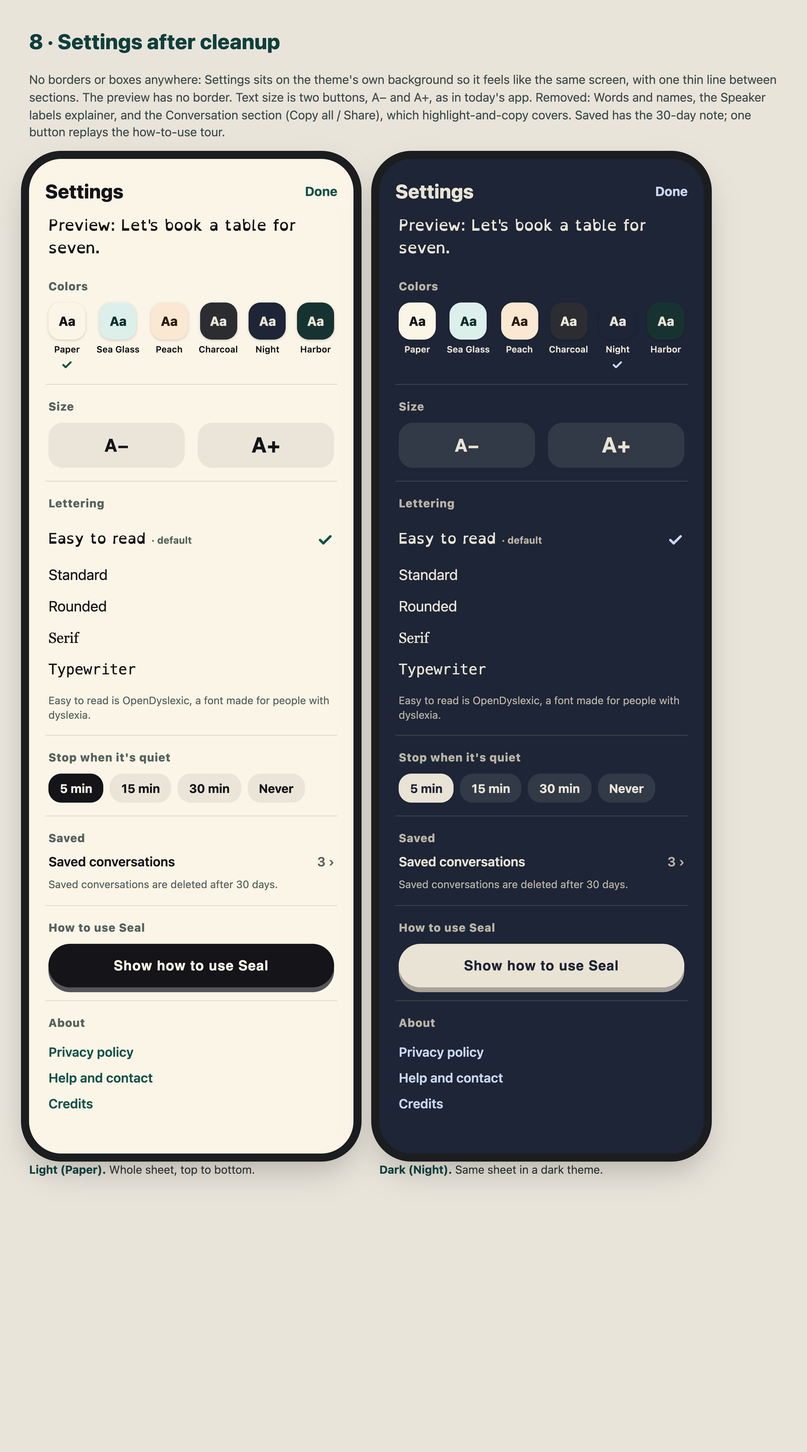
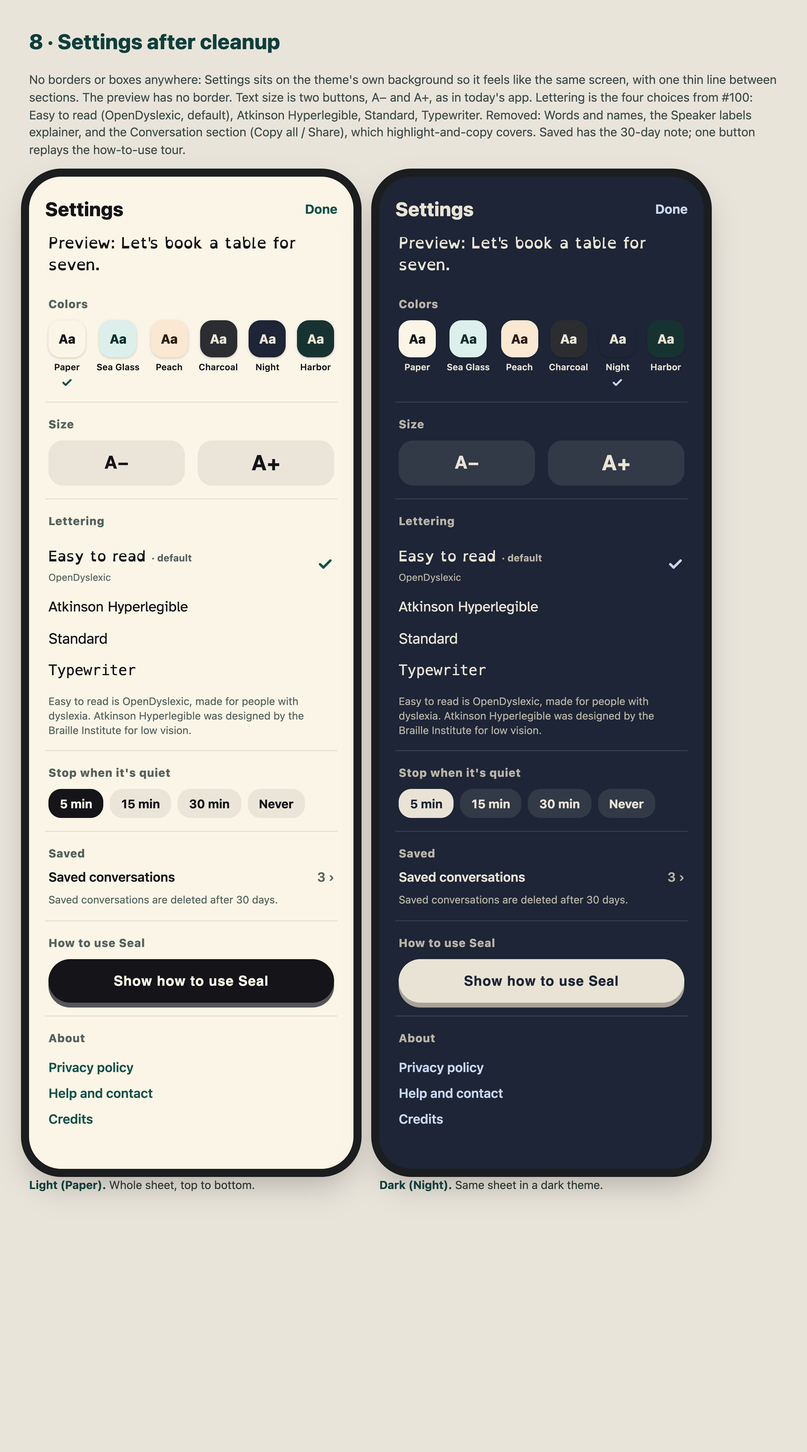
Settings mock: Lettering is OpenDyslexic, Atkinson Hyperlegible, Standard, Typewriter (#100)
Claude-Session: https://claude.ai/code/session_01Cp7dnhxUsQiktMJiQYertd

diff --git a/docs/design/mocks/2026-10-09/src/08-settings.html b/docs/design/mocks/2026-10-09/src/08-settings.html
@@ -1,6 +1,7 @@
 <!doctype html><html><head><meta charset="utf-8"><title>Settings after cleanup</title><style>
 @font-face { font-family: 'OpenDyslexic'; src: url('fonts/OpenDyslexic-Regular.woff') format('woff'); font-weight: 400; }
 @font-face { font-family: 'OpenDyslexic'; src: url('fonts/OpenDyslexic-Bold.woff') format('woff'); font-weight: 700; }
+@font-face { font-family: 'Atkinson Hyperlegible'; src: url('fonts/AtkinsonHyperlegible-Regular.woff') format('woff'); font-weight: 400; }
 * { box-sizing: border-box; margin: 0; padding: 0; }
 body { font-family: -apple-system, BlinkMacSystemFont, 'SF Pro Rounded', 'Helvetica Neue', sans-serif; background: #E9E4DA; color: #1b1b1b; }
 .board { padding: 36px; display: flex; flex-direction: column; gap: 22px; }
@@ -44,12 +45,12 @@ body { font-family: -apple-system, BlinkMacSystemFont, 'SF Pro Rounded', 'Helvet
 .handle.s::after { top: -11px; }
 .handle.e::after { bottom: -11px; }
 .anno { position: absolute; z-index: 60; font-size: 13px; font-weight: 700; background: #FFF6D8; color: #5b3a00; border: 2px solid #E0A400; border-radius: 10px; padding: 6px 10px; max-width: 200px; line-height: 1.3; }
-</style></head><body style="width:1000px;min-height:1800px"><div class="board"><h1>8 · Settings after cleanup</h1><div class="sub">No borders or boxes anywhere: Settings sits on the theme's own background so it feels like the same screen, with one thin line between sections. The preview has no border. Text size is two buttons, A− and A+, as in today's app. Removed: Words and names, the Speaker labels explainer, and the Conversation section (Copy all / Share), which highlight-and-copy covers. Saved has the 30-day note; one button replays the how-to-use tour.</div><div class="row"><div><div style="width:402px;background:#FAF5E6;border-radius:40px;padding:26px 20px 30px;box-shadow:0 0 0 10px #1b1d1f,0 18px 40px rgba(0,0,0,.25)">
+</style></head><body style="width:1000px;min-height:1800px"><div class="board"><h1>8 · Settings after cleanup</h1><div class="sub">No borders or boxes anywhere: Settings sits on the theme's own background so it feels like the same screen, with one thin line between sections. The preview has no border. Text size is two buttons, A− and A+, as in today's app. Lettering is the four choices from #100: Easy to read (OpenDyslexic, default), Atkinson Hyperlegible, Standard, Typewriter. Removed: Words and names, the Speaker labels explainer, and the Conversation section (Copy all / Share), which highlight-and-copy covers. Saved has the 30-day note; one button replays the how-to-use tour.</div><div class="row"><div><div style="width:402px;background:#FAF5E6;border-radius:40px;padding:26px 20px 30px;box-shadow:0 0 0 10px #1b1d1f,0 18px 40px rgba(0,0,0,.25)">
     <div style="display:flex;justify-content:space-between;align-items:center;color:#141419"><div style="font-size:24px;font-weight:800">Settings</div><div style="font-weight:700;color:#14514B">Done</div></div>
     <div style="margin:16px 4px 6px;font-family:'OpenDyslexic';font-size:19px;line-height:1.45;color:#141419">Preview: Let's book a table for seven.</div>
     <div style="padding:18px 4px 16px"><div style="font-size:14px;font-weight:800;letter-spacing:.04em;color:#56625f;margin-bottom:12px">Colors</div><div style="display:flex;justify-content:space-between"><div style="display:flex;flex-direction:column;align-items:center;gap:5px"><div style="width:46px;height:46px;border-radius:15px;background:#FAF5E6;display:grid;place-items:center;font-weight:800;color:#141419;box-shadow:0 1px 3px rgba(0,0,0,.18)">Aa</div><div style="font-size:11px;font-weight:600;color:#141419">Paper</div><div style="height:16px"><svg width="16" height="16" viewBox="0 0 24 24" fill="none" stroke="#14514B" stroke-width="3.4" stroke-linecap="round" stroke-linejoin="round"><path d="M5 12.5l4.5 4.5L19 7.5"/></svg></div></div><div style="display:flex;flex-direction:column;align-items:center;gap:5px"><div style="width:46px;height:46px;border-radius:15px;background:#DCEFEA;display:grid;place-items:center;font-weight:800;color:#0D2F2C;box-shadow:0 1px 3px rgba(0,0,0,.18)">Aa</div><div style="font-size:11px;font-weight:600;color:#141419">Sea Glass</div><div style="height:16px"></div></div><div style="display:flex;flex-direction:column;align-items:center;gap:5px"><div style="width:46px;height:46px;border-radius:15px;background:#FBE8D2;display:grid;place-items:center;font-weight:800;color:#2B1A10;box-shadow:0 1px 3px rgba(0,0,0,.18)">Aa</div><div style="font-size:11px;font-weight:600;color:#141419">Peach</div><div style="height:16px"></div></div><div style="display:flex;flex-direction:column;align-items:center;gap:5px"><div style="width:46px;height:46px;border-radius:15px;background:#2B2D31;display:grid;place-items:center;font-weight:800;color:#ECE6D9;box-shadow:0 1px 3px rgba(0,0,0,.18)">Aa</div><div style="font-size:11px;font-weight:600;color:#141419">Charcoal</div><div style="height:16px"></div></div><div style="display:flex;flex-direction:column;align-items:center;gap:5px"><div style="width:46px;height:46px;border-radius:15px;background:#1D2536;display:grid;place-items:center;font-weight:800;color:#E9E3D5;box-shadow:0 1px 3px rgba(0,0,0,.18)">Aa</div><div style="font-size:11px;font-weight:600;color:#141419">Night</div><div style="height:16px"></div></div><div style="display:flex;flex-direction:column;align-items:center;gap:5px"><div style="width:46px;height:46px;border-radius:15px;background:#173331;display:grid;place-items:center;font-weight:800;color:#ECE4D3;box-shadow:0 1px 3px rgba(0,0,0,.18)">Aa</div><div style="font-size:11px;font-weight:600;color:#141419">Harbor</div><div style="height:16px"></div></div></div></div>
     <div style="border-top:1px solid rgba(20,20,25,.12);padding:18px 4px 16px"><div style="font-size:14px;font-weight:800;letter-spacing:.04em;color:#56625f;margin-bottom:12px">Size</div><div style="display:flex;gap:16px"><div class="btn" style="flex:1;height:56px;border-radius:18px;font-size:22px;background:rgba(20,20,25,.07);color:#141419">A−</div><div class="btn" style="flex:1;height:56px;border-radius:18px;font-size:26px;background:rgba(20,20,25,.07);color:#141419">A+</div></div></div>
-    <div style="border-top:1px solid rgba(20,20,25,.12);padding:18px 4px 16px"><div style="font-size:14px;font-weight:800;letter-spacing:.04em;color:#56625f;margin-bottom:12px">Lettering</div><div style="display:flex;justify-content:space-between;align-items:center;padding:9px 0;color:#141419"><span style="font-family:'OpenDyslexic';font-size:18px">Easy to read <span style="font-family:system-ui,BlinkMacSystemFont,sans-serif;font-size:12px;font-weight:700;color:#56625f">· default</span></span><svg width="22" height="22" viewBox="0 0 24 24" fill="none" stroke="#14514B" stroke-width="3.4" stroke-linecap="round" stroke-linejoin="round"><path d="M5 12.5l4.5 4.5L19 7.5"/></svg></div><div style="display:flex;justify-content:space-between;align-items:center;padding:9px 0;color:#141419"><span style="font-family:system-ui,BlinkMacSystemFont,Helvetica,sans-serif;font-size:18px">Standard</span></div><div style="display:flex;justify-content:space-between;align-items:center;padding:9px 0;color:#141419"><span style="font-family:ui-rounded,'SF Pro Rounded',system-ui,sans-serif;font-size:18px">Rounded</span></div><div style="display:flex;justify-content:space-between;align-items:center;padding:9px 0;color:#141419"><span style="font-family:Georgia,serif;font-size:18px">Serif</span></div><div style="display:flex;justify-content:space-between;align-items:center;padding:9px 0;color:#141419"><span style="font-family:Menlo,monospace;font-size:18px">Typewriter</span></div><div style="font-size:13px;color:#56625f;margin-top:10px;line-height:1.4">Easy to read is OpenDyslexic, a font made for people with dyslexia.</div></div>
+    <div style="border-top:1px solid rgba(20,20,25,.12);padding:18px 4px 16px"><div style="font-size:14px;font-weight:800;letter-spacing:.04em;color:#56625f;margin-bottom:12px">Lettering</div><div style="display:flex;justify-content:space-between;align-items:center;padding:9px 0;color:#141419"><span style="font-family:'OpenDyslexic';font-size:18px">Easy to read <span style="font-family:system-ui,BlinkMacSystemFont,sans-serif;font-size:12px;font-weight:700;color:#56625f">· default</span><div style="font-family:system-ui,BlinkMacSystemFont,sans-serif;font-size:12px;color:#56625f;margin-top:2px">OpenDyslexic</div></span><svg width="22" height="22" viewBox="0 0 24 24" fill="none" stroke="#14514B" stroke-width="3.4" stroke-linecap="round" stroke-linejoin="round"><path d="M5 12.5l4.5 4.5L19 7.5"/></svg></div><div style="display:flex;justify-content:space-between;align-items:center;padding:9px 0;color:#141419"><span style="font-family:'Atkinson Hyperlegible';font-size:18px">Atkinson Hyperlegible</span></div><div style="display:flex;justify-content:space-between;align-items:center;padding:9px 0;color:#141419"><span style="font-family:system-ui,BlinkMacSystemFont,Helvetica,sans-serif;font-size:18px">Standard</span></div><div style="display:flex;justify-content:space-between;align-items:center;padding:9px 0;color:#141419"><span style="font-family:Menlo,monospace;font-size:18px">Typewriter</span></div><div style="font-size:13px;color:#56625f;margin-top:10px;line-height:1.4">Easy to read is OpenDyslexic, made for people with dyslexia. Atkinson Hyperlegible was designed by the Braille Institute for low vision.</div></div>
     <div style="border-top:1px solid rgba(20,20,25,.12);padding:18px 4px 16px"><div style="font-size:14px;font-weight:800;letter-spacing:.04em;color:#56625f;margin-bottom:12px">Stop when it's quiet</div><div style="display:flex;gap:8px;flex-wrap:wrap"><span style="padding:9px 14px;border-radius:16px;font-weight:700;font-size:15px;background:#141419;color:#FAF5E6">5 min</span><span style="padding:9px 14px;border-radius:16px;font-weight:700;font-size:15px;background:rgba(20,20,25,.07);color:#141419">15 min</span><span style="padding:9px 14px;border-radius:16px;font-weight:700;font-size:15px;background:rgba(20,20,25,.07);color:#141419">30 min</span><span style="padding:9px 14px;border-radius:16px;font-weight:700;font-size:15px;background:rgba(20,20,25,.07);color:#141419">Never</span></div></div>
     <div style="border-top:1px solid rgba(20,20,25,.12);padding:18px 4px 16px"><div style="font-size:14px;font-weight:800;letter-spacing:.04em;color:#56625f;margin-bottom:12px">Saved</div><div style="display:flex;justify-content:space-between;font-weight:600;color:#141419"><span>Saved conversations</span><span style="color:#56625f">3 ›</span></div><div style="font-size:13px;color:#56625f;margin-top:10px;line-height:1.4">Saved conversations are deleted after 30 days.</div></div>
     <div style="border-top:1px solid rgba(20,20,25,.12);padding:18px 4px 16px"><div style="font-size:14px;font-weight:800;letter-spacing:.04em;color:#56625f;margin-bottom:12px">How to use Seal</div><div class="btn" style="width:100%;height:54px;border-radius:27px;font-size:17px;background:#141419;color:#FAF5E6;box-shadow:0 6px 0 #565659;">Show how to use Seal</div></div>
@@ -59,7 +60,7 @@ body { font-family: -apple-system, BlinkMacSystemFont, 'SF Pro Rounded', 'Helvet
     <div style="margin:16px 4px 6px;font-family:'OpenDyslexic';font-size:19px;line-height:1.45;color:#E9E3D5">Preview: Let's book a table for seven.</div>
     <div style="padding:18px 4px 16px"><div style="font-size:14px;font-weight:800;letter-spacing:.04em;color:#B9B3A6;margin-bottom:12px">Colors</div><div style="display:flex;justify-content:space-between"><div style="display:flex;flex-direction:column;align-items:center;gap:5px"><div style="width:46px;height:46px;border-radius:15px;background:#FAF5E6;display:grid;place-items:center;font-weight:800;color:#141419;box-shadow:0 1px 3px rgba(0,0,0,.18)">Aa</div><div style="font-size:11px;font-weight:600;color:#E9E3D5">Paper</div><div style="height:16px"></div></div><div style="display:flex;flex-direction:column;align-items:center;gap:5px"><div style="width:46px;height:46px;border-radius:15px;background:#DCEFEA;display:grid;place-items:center;font-weight:800;color:#0D2F2C;box-shadow:0 1px 3px rgba(0,0,0,.18)">Aa</div><div style="font-size:11px;font-weight:600;color:#E9E3D5">Sea Glass</div><div style="height:16px"></div></div><div style="display:flex;flex-direction:column;align-items:center;gap:5px"><div style="width:46px;height:46px;border-radius:15px;background:#FBE8D2;display:grid;place-items:center;font-weight:800;color:#2B1A10;box-shadow:0 1px 3px rgba(0,0,0,.18)">Aa</div><div style="font-size:11px;font-weight:600;color:#E9E3D5">Peach</div><div style="height:16px"></div></div><div style="display:flex;flex-direction:column;align-items:center;gap:5px"><div style="width:46px;height:46px;border-radius:15px;background:#2B2D31;display:grid;place-items:center;font-weight:800;color:#ECE6D9;box-shadow:0 1px 3px rgba(0,0,0,.18)">Aa</div><div style="font-size:11px;font-weight:600;color:#E9E3D5">Charcoal</div><div style="height:16px"></div></div><div style="display:flex;flex-direction:column;align-items:center;gap:5px"><div style="width:46px;height:46px;border-radius:15px;background:#1D2536;display:grid;place-items:center;font-weight:800;color:#E9E3D5;box-shadow:0 1px 3px rgba(0,0,0,.18)">Aa</div><div style="font-size:11px;font-weight:600;color:#E9E3D5">Night</div><div style="height:16px"><svg width="16" height="16" viewBox="0 0 24 24" fill="none" stroke="#C9D6F2" stroke-width="3.4" stroke-linecap="round" stroke-linejoin="round"><path d="M5 12.5l4.5 4.5L19 7.5"/></svg></div></div><div style="display:flex;flex-direction:column;align-items:center;gap:5px"><div style="width:46px;height:46px;border-radius:15px;background:#173331;display:grid;place-items:center;font-weight:800;color:#ECE4D3;box-shadow:0 1px 3px rgba(0,0,0,.18)">Aa</div><div style="font-size:11px;font-weight:600;color:#E9E3D5">Harbor</div><div style="height:16px"></div></div></div></div>
     <div style="border-top:1px solid rgba(236,230,217,.16);padding:18px 4px 16px"><div style="font-size:14px;font-weight:800;letter-spacing:.04em;color:#B9B3A6;margin-bottom:12px">Size</div><div style="display:flex;gap:16px"><div class="btn" style="flex:1;height:56px;border-radius:18px;font-size:22px;background:rgba(236,230,217,.10);color:#E9E3D5">A−</div><div class="btn" style="flex:1;height:56px;border-radius:18px;font-size:26px;background:rgba(236,230,217,.10);color:#E9E3D5">A+</div></div></div>
-    <div style="border-top:1px solid rgba(236,230,217,.16);padding:18px 4px 16px"><div style="font-size:14px;font-weight:800;letter-spacing:.04em;color:#B9B3A6;margin-bottom:12px">Lettering</div><div style="display:flex;justify-content:space-between;align-items:center;padding:9px 0;color:#E9E3D5"><span style="font-family:'OpenDyslexic';font-size:18px">Easy to read <span style="font-family:system-ui,BlinkMacSystemFont,sans-serif;font-size:12px;font-weight:700;color:#B9B3A6">· default</span></span><svg width="22" height="22" viewBox="0 0 24 24" fill="none" stroke="#C9D6F2" stroke-width="3.4" stroke-linecap="round" stroke-linejoin="round"><path d="M5 12.5l4.5 4.5L19 7.5"/></svg></div><div style="display:flex;justify-content:space-between;align-items:center;padding:9px 0;color:#E9E3D5"><span style="font-family:system-ui,BlinkMacSystemFont,Helvetica,sans-serif;font-size:18px">Standard</span></div><div style="display:flex;justify-content:space-between;align-items:center;padding:9px 0;color:#E9E3D5"><span style="font-family:ui-rounded,'SF Pro Rounded',system-ui,sans-serif;font-size:18px">Rounded</span></div><div style="display:flex;justify-content:space-between;align-items:center;padding:9px 0;color:#E9E3D5"><span style="font-family:Georgia,serif;font-size:18px">Serif</span></div><div style="display:flex;justify-content:space-between;align-items:center;padding:9px 0;color:#E9E3D5"><span style="font-family:Menlo,monospace;font-size:18px">Typewriter</span></div><div style="font-size:13px;color:#B9B3A6;margin-top:10px;line-height:1.4">Easy to read is OpenDyslexic, a font made for people with dyslexia.</div></div>
+    <div style="border-top:1px solid rgba(236,230,217,.16);padding:18px 4px 16px"><div style="font-size:14px;font-weight:800;letter-spacing:.04em;color:#B9B3A6;margin-bottom:12px">Lettering</div><div style="display:flex;justify-content:space-between;align-items:center;padding:9px 0;color:#E9E3D5"><span style="font-family:'OpenDyslexic';font-size:18px">Easy to read <span style="font-family:system-ui,BlinkMacSystemFont,sans-serif;font-size:12px;font-weight:700;color:#B9B3A6">· default</span><div style="font-family:system-ui,BlinkMacSystemFont,sans-serif;font-size:12px;color:#B9B3A6;margin-top:2px">OpenDyslexic</div></span><svg width="22" height="22" viewBox="0 0 24 24" fill="none" stroke="#C9D6F2" stroke-width="3.4" stroke-linecap="round" stroke-linejoin="round"><path d="M5 12.5l4.5 4.5L19 7.5"/></svg></div><div style="display:flex;justify-content:space-between;align-items:center;padding:9px 0;color:#E9E3D5"><span style="font-family:'Atkinson Hyperlegible';font-size:18px">Atkinson Hyperlegible</span></div><div style="display:flex;justify-content:space-between;align-items:center;padding:9px 0;color:#E9E3D5"><span style="font-family:system-ui,BlinkMacSystemFont,Helvetica,sans-serif;font-size:18px">Standard</span></div><div style="display:flex;justify-content:space-between;align-items:center;padding:9px 0;color:#E9E3D5"><span style="font-family:Menlo,monospace;font-size:18px">Typewriter</span></div><div style="font-size:13px;color:#B9B3A6;margin-top:10px;line-height:1.4">Easy to read is OpenDyslexic, made for people with dyslexia. Atkinson Hyperlegible was designed by the Braille Institute for low vision.</div></div>
     <div style="border-top:1px solid rgba(236,230,217,.16);padding:18px 4px 16px"><div style="font-size:14px;font-weight:800;letter-spacing:.04em;color:#B9B3A6;margin-bottom:12px">Stop when it's quiet</div><div style="display:flex;gap:8px;flex-wrap:wrap"><span style="padding:9px 14px;border-radius:16px;font-weight:700;font-size:15px;background:#E9E3D5;color:#1D2536">5 min</span><span style="padding:9px 14px;border-radius:16px;font-weight:700;font-size:15px;background:rgba(236,230,217,.10);color:#E9E3D5">15 min</span><span style="padding:9px 14px;border-radius:16px;font-weight:700;font-size:15px;background:rgba(236,230,217,.10);color:#E9E3D5">30 min</span><span style="padding:9px 14px;border-radius:16px;font-weight:700;font-size:15px;background:rgba(236,230,217,.10);color:#E9E3D5">Never</span></div></div>
     <div style="border-top:1px solid rgba(236,230,217,.16);padding:18px 4px 16px"><div style="font-size:14px;font-weight:800;letter-spacing:.04em;color:#B9B3A6;margin-bottom:12px">Saved</div><div style="display:flex;justify-content:space-between;font-weight:600;color:#E9E3D5"><span>Saved conversations</span><span style="color:#B9B3A6">3 ›</span></div><div style="font-size:13px;color:#B9B3A6;margin-top:10px;line-height:1.4">Saved conversations are deleted after 30 days.</div></div>
     <div style="border-top:1px solid rgba(236,230,217,.16);padding:18px 4px 16px"><div style="font-size:14px;font-weight:800;letter-spacing:.04em;color:#B9B3A6;margin-bottom:12px">How to use Seal</div><div class="btn" style="width:100%;height:54px;border-radius:27px;font-size:17px;background:#E9E3D5;color:#1D2536;box-shadow:0 6px 0 #a8a399;">Show how to use Seal</div></div>

diff --git a/docs/design/mocks/2026-10-09/src/04-dim-cleared-and-back.html b/docs/design/mocks/2026-10-09/src/04-dim-cleared-and-back.html
@@ -1,6 +1,7 @@
 <!doctype html><html><head><meta charset="utf-8"><title>Veil cleared for scrolling and copying</title><style>
 @font-face { font-family: 'OpenDyslexic'; src: url('fonts/OpenDyslexic-Regular.woff') format('woff'); font-weight: 400; }
 @font-face { font-family: 'OpenDyslexic'; src: url('fonts/OpenDyslexic-Bold.woff') format('woff'); font-weight: 700; }
+@font-face { font-family: 'Atkinson Hyperlegible'; src: url('fonts/AtkinsonHyperlegible-Regular.woff') format('woff'); font-weight: 400; }
 * { box-sizing: border-box; margin: 0; padding: 0; }
 body { font-family: -apple-system, BlinkMacSystemFont, 'SF Pro Rounded', 'Helvetica Neue', sans-serif; background: #E9E4DA; color: #1b1b1b; }
 .board { padding: 36px; display: flex; flex-direction: column; gap: 22px; }

diff --git a/docs/design/mocks/2026-10-09/src/11-launch-handoff.html b/docs/design/mocks/2026-10-09/src/11-launch-handoff.html
@@ -1,6 +1,7 @@
 <!doctype html><html><head><meta charset="utf-8"><title>Launch hand-off into the main screen</title><style>
 @font-face { font-family: 'OpenDyslexic'; src: url('fonts/OpenDyslexic-Regular.woff') format('woff'); font-weight: 400; }
 @font-face { font-family: 'OpenDyslexic'; src: url('fonts/OpenDyslexic-Bold.woff') format('woff'); font-weight: 700; }
+@font-face { font-family: 'Atkinson Hyperlegible'; src: url('fonts/AtkinsonHyperlegible-Regular.woff') format('woff'); font-weight: 400; }
 * { box-sizing: border-box; margin: 0; padding: 0; }
 body { font-family: -apple-system, BlinkMacSystemFont, 'SF Pro Rounded', 'Helvetica Neue', sans-serif; background: #E9E4DA; color: #1b1b1b; }
 .board { padding: 36px; display: flex; flex-direction: column; gap: 22px; }

diff --git a/docs/design/mocks/2026-10-09/src/09-how-to-use-intro.html b/docs/design/mocks/2026-10-09/src/09-how-to-use-intro.html
@@ -1,6 +1,7 @@
 <!doctype html><html><head><meta charset="utf-8"><title>How-to-use tour on the real screen</title><style>
 @font-face { font-family: 'OpenDyslexic'; src: url('fonts/OpenDyslexic-Regular.woff') format('woff'); font-weight: 400; }
 @font-face { font-family: 'OpenDyslexic'; src: url('fonts/OpenDyslexic-Bold.woff') format('woff'); font-weight: 700; }
+@font-face { font-family: 'Atkinson Hyperlegible'; src: url('fonts/AtkinsonHyperlegible-Regular.woff') format('woff'); font-weight: 400; }
 * { box-sizing: border-box; margin: 0; padding: 0; }
 body { font-family: -apple-system, BlinkMacSystemFont, 'SF Pro Rounded', 'Helvetica Neue', sans-serif; background: #E9E4DA; color: #1b1b1b; }
 .board { padding: 36px; display: flex; flex-direction: column; gap: 22px; }

diff --git a/docs/design/mocks/2026-10-09/src/01-main-captioning.html b/docs/design/mocks/2026-10-09/src/01-main-captioning.html
@@ -1,6 +1,7 @@
 <!doctype html><html><head><meta charset="utf-8"><title>Main screen while captioning</title><style>
 @font-face { font-family: 'OpenDyslexic'; src: url('fonts/OpenDyslexic-Regular.woff') format('woff'); font-weight: 400; }
 @font-face { font-family: 'OpenDyslexic'; src: url('fonts/OpenDyslexic-Bold.woff') format('woff'); font-weight: 700; }
+@font-face { font-family: 'Atkinson Hyperlegible'; src: url('fonts/AtkinsonHyperlegible-Regular.woff') format('woff'); font-weight: 400; }
 * { box-sizing: border-box; margin: 0; padding: 0; }
 body { font-family: -apple-system, BlinkMacSystemFont, 'SF Pro Rounded', 'Helvetica Neue', sans-serif; background: #E9E4DA; color: #1b1b1b; }
 .board { padding: 36px; display: flex; flex-direction: column; gap: 22px; }

diff --git a/docs/design/mocks/2026-10-09/src/02-paused-save-new.html b/docs/design/mocks/2026-10-09/src/02-paused-save-new.html
@@ -1,6 +1,7 @@
 <!doctype html><html><head><meta charset="utf-8"><title>Paused: Start, Save, New</title><style>
 @font-face { font-family: 'OpenDyslexic'; src: url('fonts/OpenDyslexic-Regular.woff') format('woff'); font-weight: 400; }
 @font-face { font-family: 'OpenDyslexic'; src: url('fonts/OpenDyslexic-Bold.woff') format('woff'); font-weight: 700; }
+@font-face { font-family: 'Atkinson Hyperlegible'; src: url('fonts/AtkinsonHyperlegible-Regular.woff') format('woff'); font-weight: 400; }
 * { box-sizing: border-box; margin: 0; padding: 0; }
 body { font-family: -apple-system, BlinkMacSystemFont, 'SF Pro Rounded', 'Helvetica Neue', sans-serif; background: #E9E4DA; color: #1b1b1b; }
 .board { padding: 36px; display: flex; flex-direction: column; gap: 22px; }

diff --git a/docs/design/mocks/2026-10-09/src/05-copy.html b/docs/design/mocks/2026-10-09/src/05-copy.html
@@ -1,6 +1,7 @@
 <!doctype html><html><head><meta charset="utf-8"><title>Copy: only a Copy button</title><style>
 @font-face { font-family: 'OpenDyslexic'; src: url('fonts/OpenDyslexic-Regular.woff') format('woff'); font-weight: 400; }
 @font-face { font-family: 'OpenDyslexic'; src: url('fonts/OpenDyslexic-Bold.woff') format('woff'); font-weight: 700; }
+@font-face { font-family: 'Atkinson Hyperlegible'; src: url('fonts/AtkinsonHyperlegible-Regular.woff') format('woff'); font-weight: 400; }
 * { box-sizing: border-box; margin: 0; padding: 0; }
 body { font-family: -apple-system, BlinkMacSystemFont, 'SF Pro Rounded', 'Helvetica Neue', sans-serif; background: #E9E4DA; color: #1b1b1b; }
 .board { padding: 36px; display: flex; flex-direction: column; gap: 22px; }

diff --git a/docs/design/mocks/2026-10-09/src/06-themes.html b/docs/design/mocks/2026-10-09/src/06-themes.html
@@ -1,6 +1,7 @@
 <!doctype html><html><head><meta charset="utf-8"><title>Themes: 3 light, 3 dark</title><style>
 @font-face { font-family: 'OpenDyslexic'; src: url('fonts/OpenDyslexic-Regular.woff') format('woff'); font-weight: 400; }
 @font-face { font-family: 'OpenDyslexic'; src: url('fonts/OpenDyslexic-Bold.woff') format('woff'); font-weight: 700; }
+@font-face { font-family: 'Atkinson Hyperlegible'; src: url('fonts/AtkinsonHyperlegible-Regular.woff') format('woff'); font-weight: 400; }
 * { box-sizing: border-box; margin: 0; padding: 0; }
 body { font-family: -apple-system, BlinkMacSystemFont, 'SF Pro Rounded', 'Helvetica Neue', sans-serif; background: #E9E4DA; color: #1b1b1b; }
 .board { padding: 36px; display: flex; flex-direction: column; gap: 22px; }

diff --git a/docs/design/mocks/2026-10-09/src/10-button-compare-A-vs-C.html b/docs/design/mocks/2026-10-09/src/10-button-compare-A-vs-C.html
@@ -1,6 +1,7 @@
 <!doctype html><html><head><meta charset="utf-8"><title>Button style: A vs C</title><style>
 @font-face { font-family: 'OpenDyslexic'; src: url('fonts/OpenDyslexic-Regular.woff') format('woff'); font-weight: 400; }
 @font-face { font-family: 'OpenDyslexic'; src: url('fonts/OpenDyslexic-Bold.woff') format('woff'); font-weight: 700; }
+@font-face { font-family: 'Atkinson Hyperlegible'; src: url('fonts/AtkinsonHyperlegible-Regular.woff') format('woff'); font-weight: 400; }
 * { box-sizing: border-box; margin: 0; padding: 0; }
 body { font-family: -apple-system, BlinkMacSystemFont, 'SF Pro Rounded', 'Helvetica Neue', sans-serif; background: #E9E4DA; color: #1b1b1b; }
 .board { padding: 36px; display: flex; flex-direction: column; gap: 22px; }

diff --git a/docs/design/mocks/2026-10-09/src/03-save-animation.html b/docs/design/mocks/2026-10-09/src/03-save-animation.html
@@ -1,6 +1,7 @@
 <!doctype html><html><head><meta charset="utf-8"><title>Save animation</title><style>
 @font-face { font-family: 'OpenDyslexic'; src: url('fonts/OpenDyslexic-Regular.woff') format('woff'); font-weight: 400; }
 @font-face { font-family: 'OpenDyslexic'; src: url('fonts/OpenDyslexic-Bold.woff') format('woff'); font-weight: 700; }
+@font-face { font-family: 'Atkinson Hyperlegible'; src: url('fonts/AtkinsonHyperlegible-Regular.woff') format('woff'); font-weight: 400; }
 * { box-sizing: border-box; margin: 0; padding: 0; }
 body { font-family: -apple-system, BlinkMacSystemFont, 'SF Pro Rounded', 'Helvetica Neue', sans-serif; background: #E9E4DA; color: #1b1b1b; }
 .board { padding: 36px; display: flex; flex-direction: column; gap: 22px; }

diff --git a/docs/design/mocks/2026-10-09/README.md b/docs/design/mocks/2026-10-09/README.md
@@ -12,7 +12,7 @@ simulator screenshots. Regenerate with `node src/build.mjs` (it uses the Playwri
 | 04-dim-cleared-and-back.png | Tap the veil to clear it for scrolling and copying; press and hold on empty space brings it back. |
 | 05-copy.png | Multi-line selection with handles and only a Copy button. |
 | 06-themes.png | 3 light and 3 relaxed dark themes, with computed contrast for text, gear, speaker labels and the [ Saved ] green. All ≥ 7:1. |
-| 08-settings.png | Settings with no borders or boxes, one thin line between sections, A− / A+ buttons, no Conversation section. Light and dark. |
+| 08-settings.png | Settings with no borders or boxes, one thin line between sections, A− / A+ buttons, no Conversation section, Lettering = Easy to read (OpenDyslexic, default), Atkinson Hyperlegible, Standard, Typewriter (#100). Light and dark. |
 | 09-how-to-use-intro.png | The how-to-use tour on the real main screen: spotlight on the real control, six steps, Skip / Back / Next. |
 | 10-button-compare-A-vs-C.png | Start button in A (gummy lip) and C (outlined cream), resting and pressed, light and dark, with plain-language notes. |
 | 11-launch-handoff.png | How the launch animation (#99) ends: freeze frame with the bar full, then Glide into the Start button, or Dive. |
@@ -39,6 +39,7 @@ simulator screenshots. Regenerate with `node src/build.mjs` (it uses the Playwri
 - **Retro buttons use a monospaced font** (SF Mono) so the brackets line up like a terminal.
 - **[ Saved ] green:** #12512F on light themes (7.8–8.6:1), #9BE3B4 / #A6E8BC on dark themes (9.2–10.3:1).
 - **Dark theme colors:** Charcoal #2B2D31 / #ECE6D9, Night #1D2536 / #E9E3D5, Harbor #173331 / #ECE4D3.
+- **Atkinson Hyperlegible** (SIL OFL) is bundled for the mock in `src/fonts/`, like OpenDyslexic.
 - **Settings sits on the theme background**, selected theme marked with a small check under its swatch (no ring).
 - **Tour:** six steps, each moving on when she does the thing; Next skips a step, Back goes back, Skip tour ends it.
 
